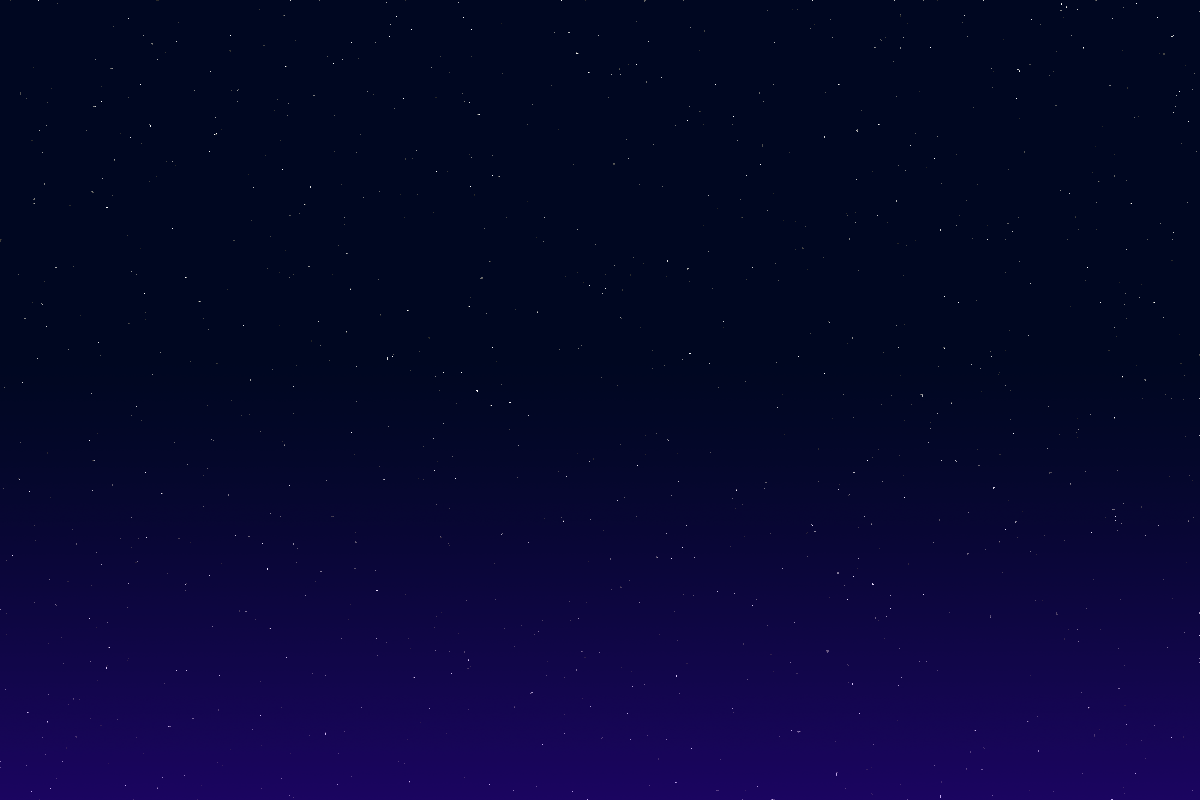
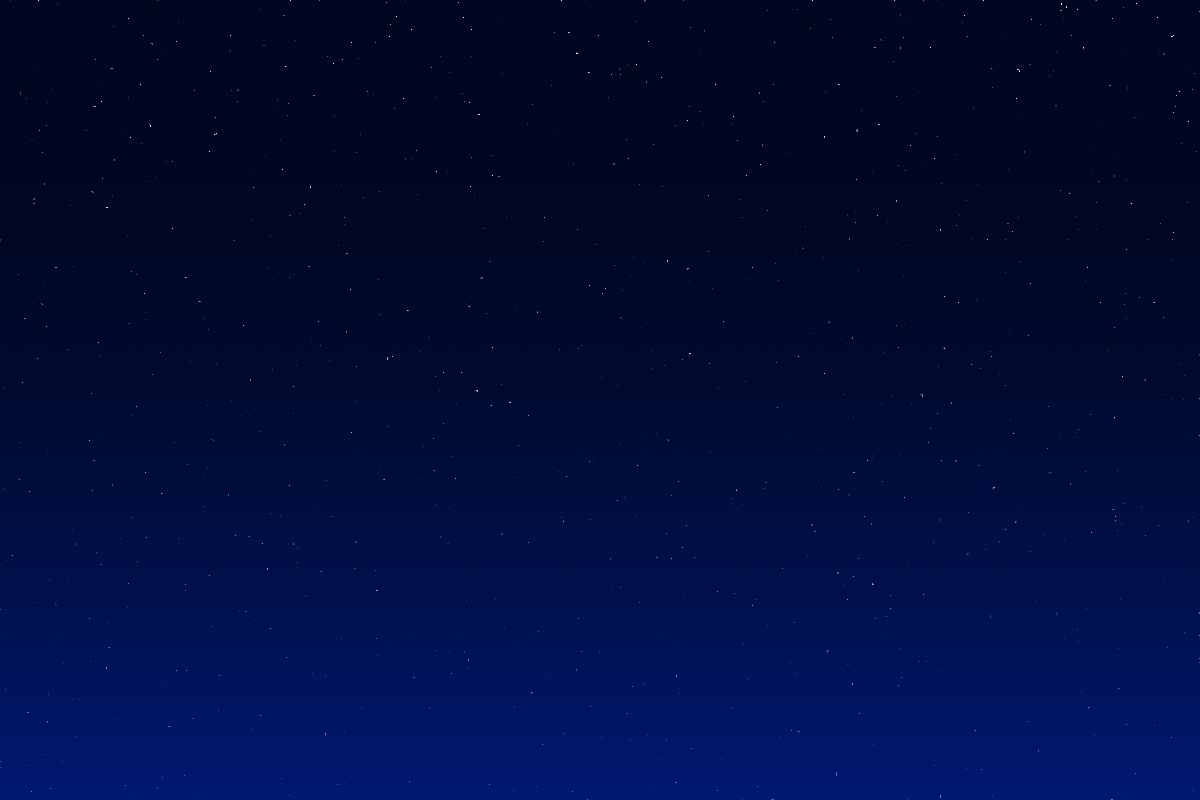
성보: createImg -> loadImage 변경 , house down시 canvas out 설정, bg img 변경, line pade out 설정

Changed region(s): [[0.0, 0.9375, 1.0, 1.0]]

diff --git a/Final_vp/sketch.js b/Final_vp/sketch.js
@@ -1,37 +1,56 @@
 let bg;
-let train;
 let house;
-let y = 0;
-let x = 1500;
-function setup() {
-  bg = createCanvas(1200, 800);
-  bg = createImg('background.png');
-  train = createImg('train_4.png');
-  house = createImg('house.png');
+let hx = 0,
+  hy = 0;
+let line4;
+let testBtn; // 버튼 위치 확인을 위해 임시로 넣은 이미지
+let houseFlag = 0;
 
+function setup() {
+  frameRate(60);
+  createCanvas(1200, 800);
+  bg = loadImage('background.png');
+  house = loadImage('house.png');
+  line4 = loadImage('line4.png');
+  testBtn = loadImage('testBtn.png');
+  tempBtn = createImg('tempBtn.png');
 }
 
 function draw() {
 
-  background(bg);// 여기는 배경화면
+  tint(255, 255, 255, 255);
+  background(bg);
 
-  // 이미지 위치조정
-  bg.position(0,0);
-  house.position(0,y);
-  train.position(x,-200);
+  image(house, hx, hy);
+  image(testBtn, 0, 30); // 버튼 레이아웃 확인을 위해 넣어둔 임시 이미지 / 삭제 필
 
-  image(train,x,-250,0,0);
-  //  이건 기차위치
-  if(mouseIsPressed) // 마우스 이벤트
-  {
-    if(y < -500)
-    {
-      y+=5;
+  if (houseFlag == 1) {
+    tint(255, 255, 255, 255 - (hy+5));
+    // 하우스 플래그 작동 시 4호선 투명도 조정
+    image(line4, 100, 110, 1200 * 0.85, 800 * 0.85);
+  } else {
+    if (hy != 500) {
+      //하단에 위치한 집이 안쪽에 위치해야 4호선 노출
+      image(line4, 100, 110, 1200 * 0.85, 800 * 0.85);
     }
-    if(y >= 0 && x>-50)
-    {
-      x -=10;
-    }
-    print(mouseX, mouseY);
   }
+  tint(255, 255, 255, 255);
+  // houseFlag로 인해 변경된 틴트값 변환
+
+
+  if (mouseIsPressed) {
+    if ((mouseX > 430 && mouseX < 445) && (mouseY > 440 && mouseY < 460)) {
+      houseFlag = 1;// 과천 클릭시
+    }
+
+  }
+
+
+  if (houseFlag == 1) {
+    hy += 10;
+    if (hy == 500) {
+      houseFlag = 0;
+    }
+  }
+
 }

diff --git a/Final_vp/index.html b/Final_vp/index.html
@@ -1,6 +1,14 @@
 <!DOCTYPE html>
 <html lang="">
   <head>
+    <style>
+      #wgb{
+        z-index: 100;
+      }
+      #house{
+        z-index: : -1;
+      }
+    </style>
     <meta charset="utf-8">
     <meta name="viewport" content="width=device-width, initial-scale=1.0">
     <title>p5.js example</title>
@@ -9,6 +17,7 @@
     <script src="libraries/p5.dom.js"></script>
     <script src="libraries/p5.sound.js"></script>
     <script src="sketch.js"></script>
+    <script language="javascript" type="text/javascript" src="libraries/p5.sound.js"></script>
   </head>
   <body>
   </body>
